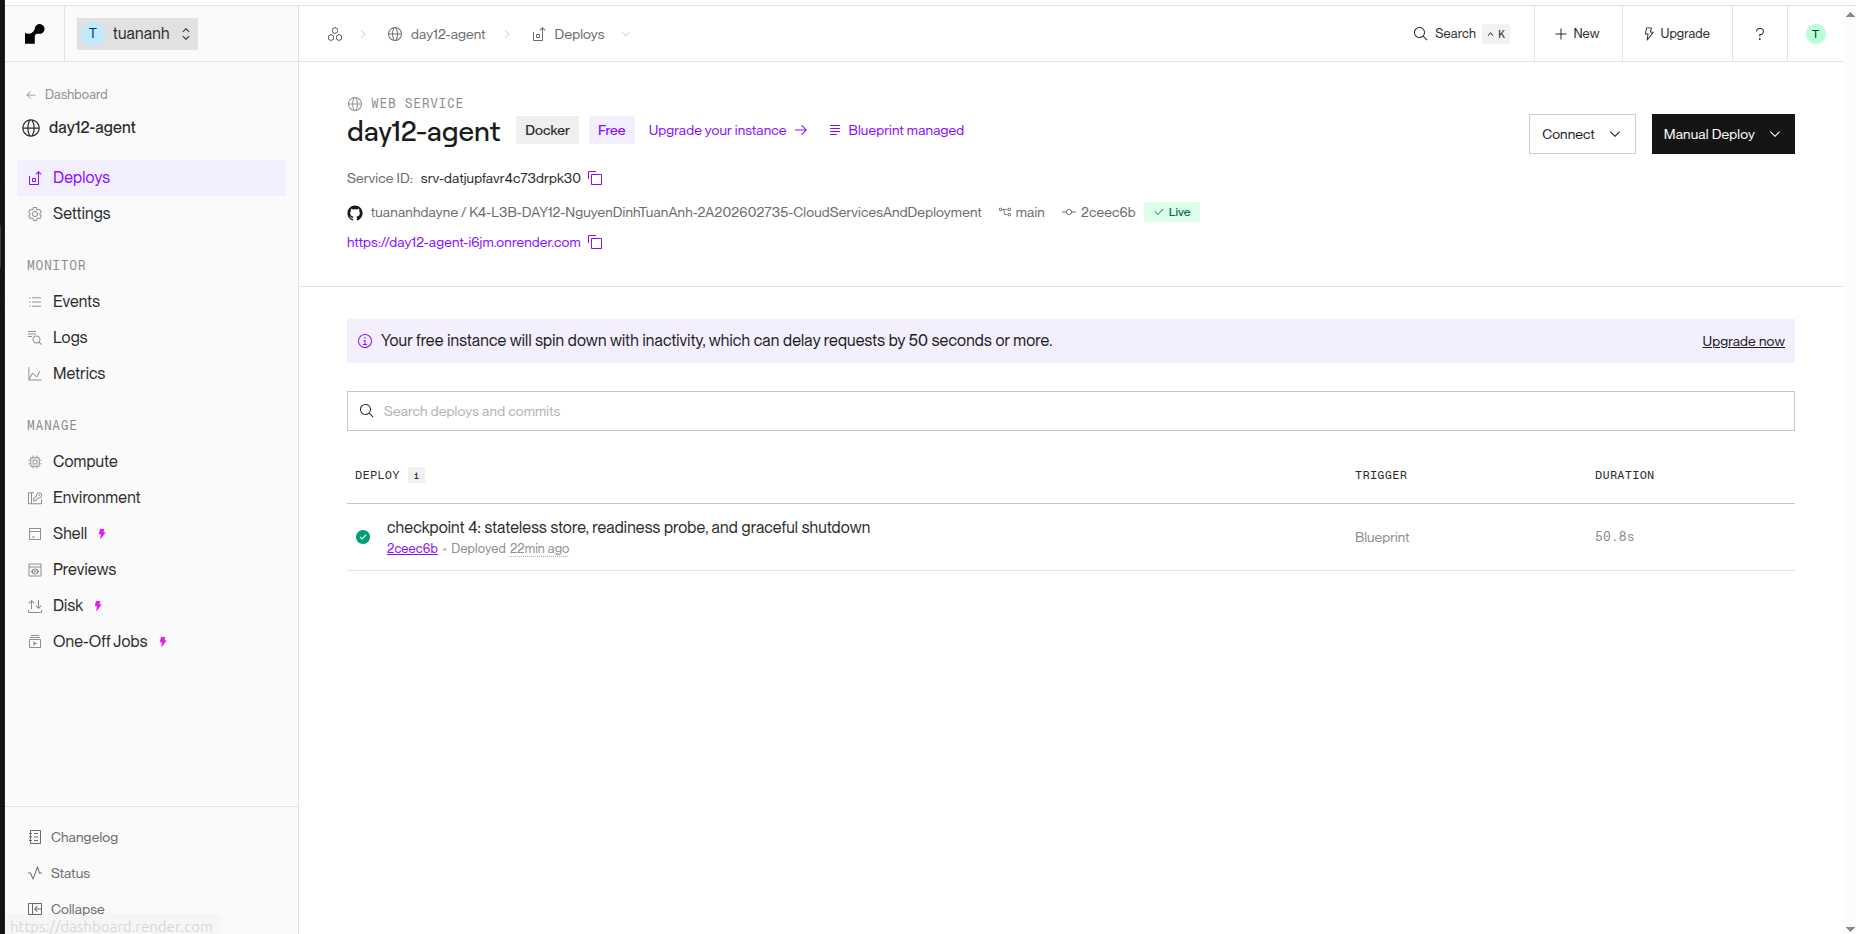
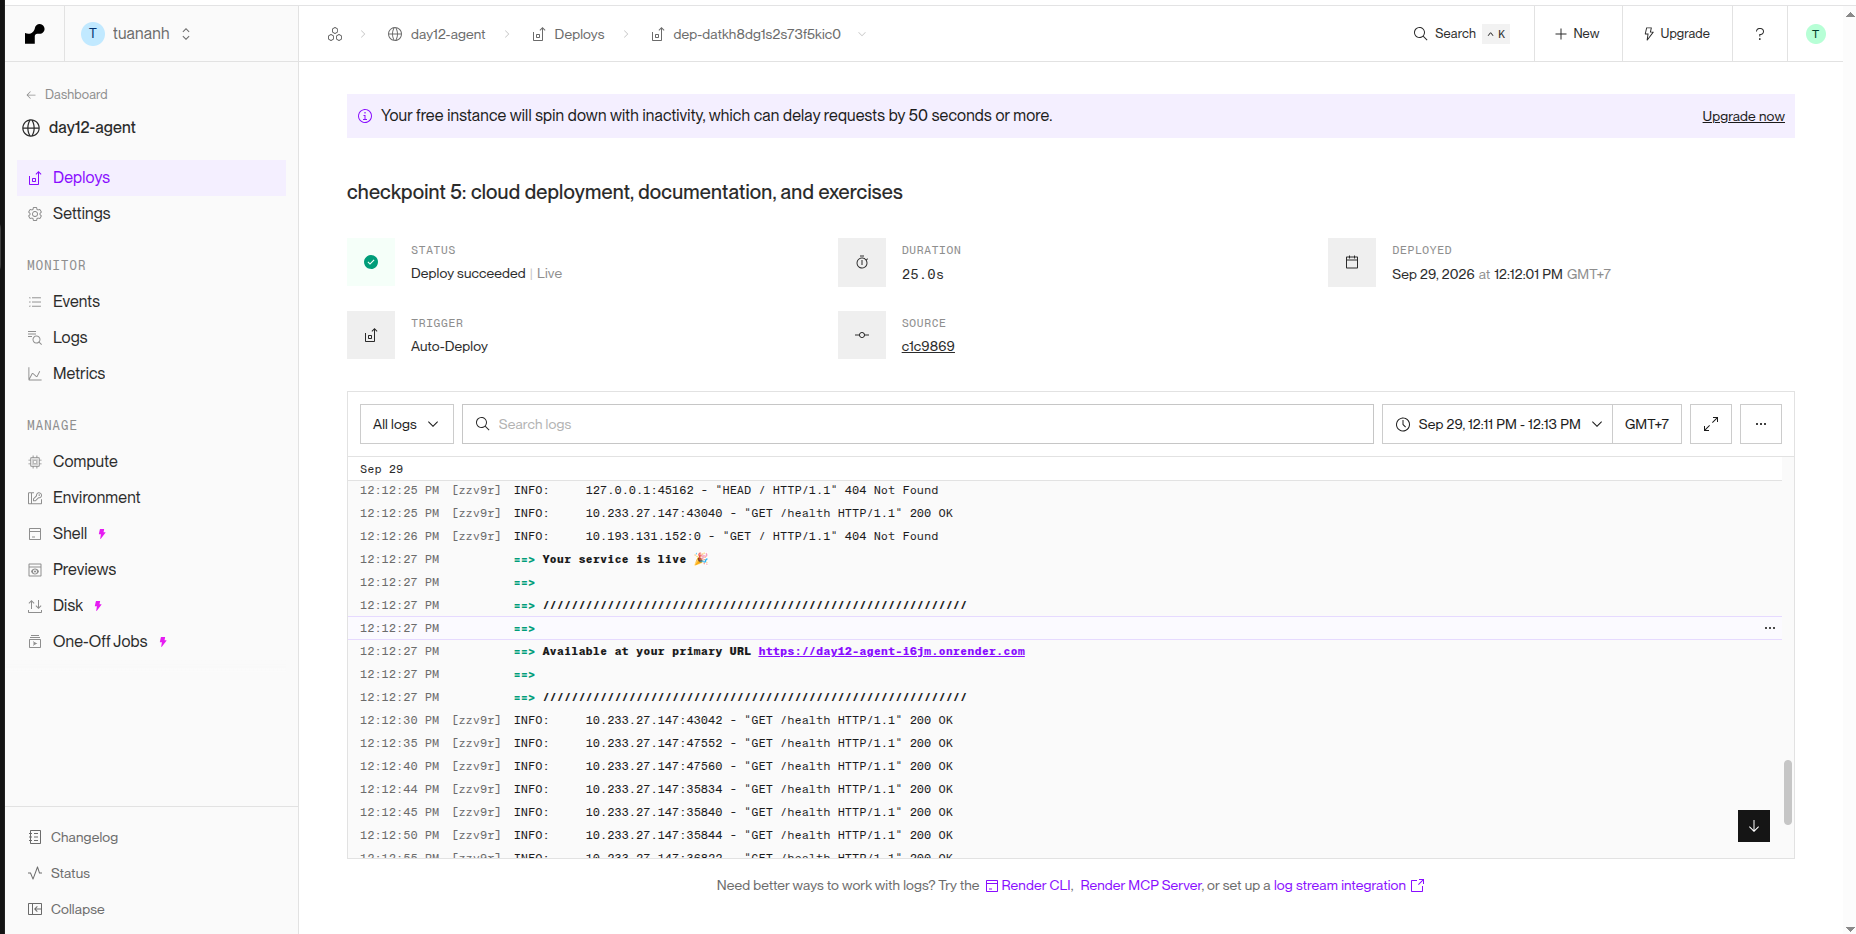
bonus: add GitHub Actions CI/CD workflow and status badge

diff --git a/README.md b/README.md
@@ -1,5 +1,7 @@
 # K4 — Level 3B, Ngày 12: Hạ Tầng Cloud & Deployment (240 phút)
 
+![CI](https://github.com/tuananhdayne/K4-L3B-DAY12-NguyenDinhTuanAnh-2A202602735-CloudServicesAndDeployment/actions/workflows/ci.yml/badge.svg)
+
 Đưa một AI agent từ `localhost:8000` lên một địa chỉ công khai mà người khác
 gọi được, có bảo mật, có giới hạn chi phí, và không sập khi bạn deploy bản mới.
 
